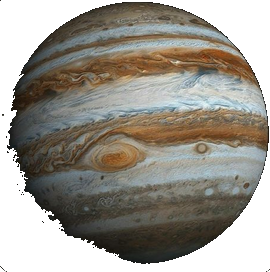
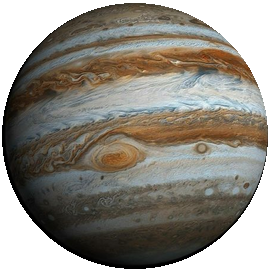
Apply perfect circular crop mask to planets 2, 3, 4, 5 to remove UI buttons and background entirely

diff --git a/crop_planets.py b/crop_planets.py
@@ -1,0 +1,67 @@
+from PIL import Image, ImageDraw
+
+def circular_crop(filepath, radius_ratio=0.48):
+    try:
+        img = Image.open(filepath).convert("RGBA")
+    except:
+        return
+    
+    w, h = img.size
+    cx, cy = w / 2, h / 2
+    r = min(w, h) * radius_ratio
+    
+    # Create a mask
+    mask = Image.new("L", (w, h), 0)
+    draw = ImageDraw.Draw(mask)
+    draw.ellipse((cx - r, cy - r, cx + r, cy + r), fill=255)
+    
+    # Apply mask
+    result = img.copy()
+    result.putalpha(mask)
+    
+    # Save
+    result.save(filepath)
+    print(f"Circular cropped {filepath}")
+
+def flood_fill_transparent(filepath, tolerance=40):
+    try:
+        img = Image.open(filepath).convert("RGBA")
+    except:
+        return
+        
+    pixels = img.load()
+    w, h = img.size
+    
+    visited = set()
+    queue = [(0, 0), (w - 1, 0), (0, h - 1), (w - 1, h - 1)]
+    
+    while queue:
+        x, y = queue.pop(0)
+        if (x, y) in visited:
+            continue
+        visited.add((x, y))
+        
+        if x < 0 or x >= w or y < 0 or y >= h:
+            continue
+            
+        r, g, b, a = pixels[x, y]
+        if r < tolerance and g < tolerance and b < tolerance:
+            pixels[x, y] = (0, 0, 0, 0)
+            queue.append((x + 1, y))
+            queue.append((x - 1, y))
+            queue.append((x, y + 1))
+            queue.append((x, y - 1))
+            
+    img.save(filepath)
+    print(f"Flood filled {filepath}")
+
+# Saturn (has rings, use flood fill)
+flood_fill_transparent("img/planet1.png", tolerance=45)
+
+# Other planets (perfect circles, use circular crop)
+circular_crop("img/planet2.png", 0.49) # Jupiter
+circular_crop("img/planet3.png", 0.49) # Mars (tighter to avoid UI buttons)
+circular_crop("img/planet4.png", 0.49) # Pluto
+circular_crop("img/planet5.png", 0.49) # Moon
+
+print("Done")
